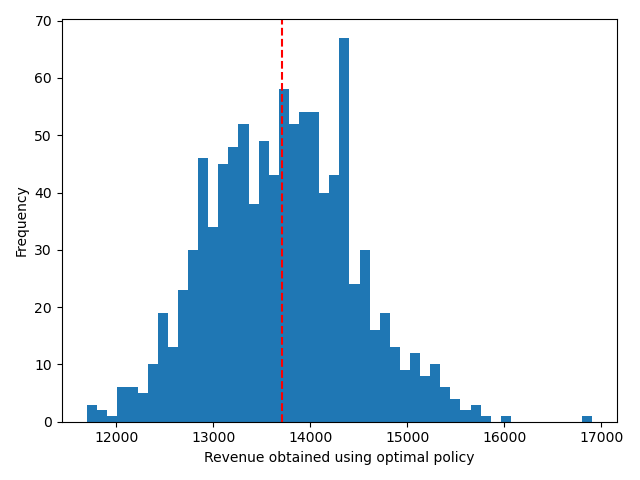
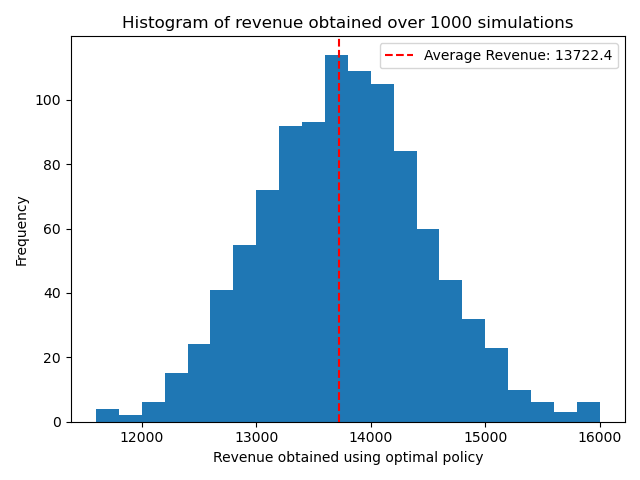
nicer simulation plot

diff --git a/assignment1/ass1.py b/assignment1/ass1.py
@@ -123,10 +123,12 @@ def simulate(Td:int, Xd:int, A:list, P:list, policy:ndarray,
 
     print('Mean expected revenue', meanrev := mean(maxrewards))
 
-    plt.hist(maxrewards, bins = 50)
-    plt.axvline(x= meanrev, color = 'r', linestyle= "--") # mean expected revenue
+    plt.hist(maxrewards, bins = 'auto')
+    plt.title(f'Histogram of revenue obtained over {n_sim} simulations')
+    plt.axvline(x= meanrev, color = 'r', linestyle= "--", label = f'Average Revenue: {meanrev}') # mean expected revenue
     plt.ylabel('Frequency')
     plt.xlabel('Revenue obtained using optimal policy')
+    plt.legend()
     plt.tight_layout()
     plt.savefig('simulation.png')
     if show == True:
